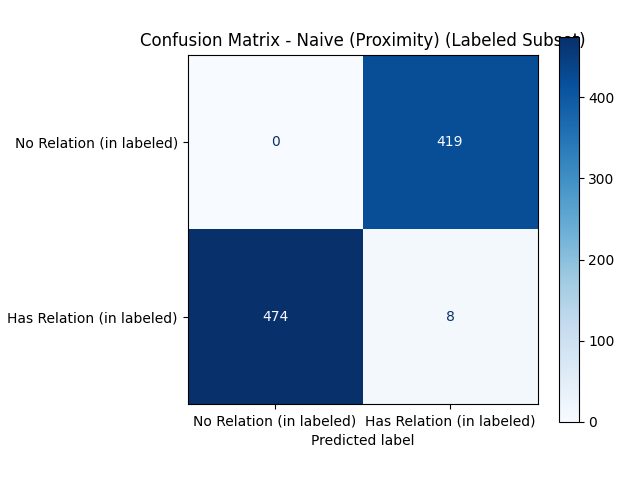
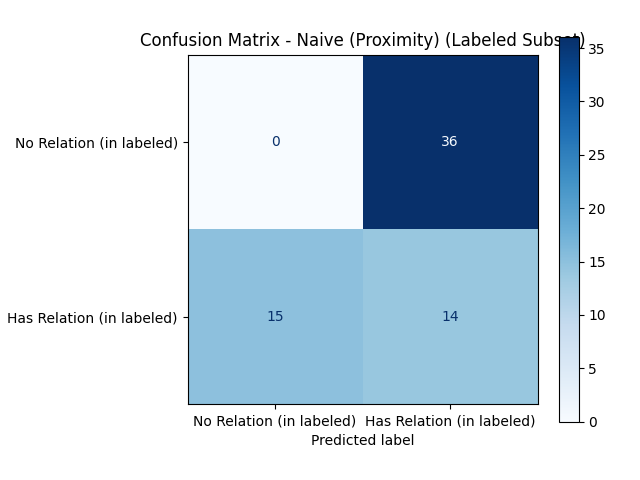
changing naive extractor to use correctly parsed dates

diff --git a/extractors/naive_extractor.py b/extractors/naive_extractor.py
@@ -63,7 +63,7 @@ class NaiveExtractor(BaseRelationExtractor):
                 
                 if distance < min_distance and distance <= self.max_distance:
                     min_distance = distance
-                    closest_date = date_str # Use the raw date string found nearby
+                    closest_date = parsed_date # Use the formatted date
             
             if closest_date:
                 relationships.append({

diff --git a/config.py b/config.py
@@ -3,7 +3,7 @@ import torch
 # --- Data Source Settings --- #
 # Specifies the source of the data to be used.
 # Valid options: 'imaging', 'notes', 'letters', 'sample', 'synthetic'
-DATA_SOURCE = 'synthetic'
+DATA_SOURCE = 'sample'
 
 # --- LLM (OpenAI) Extractor Parameters --- #
 OPENAI_MODEL = 'gpt-4o'
